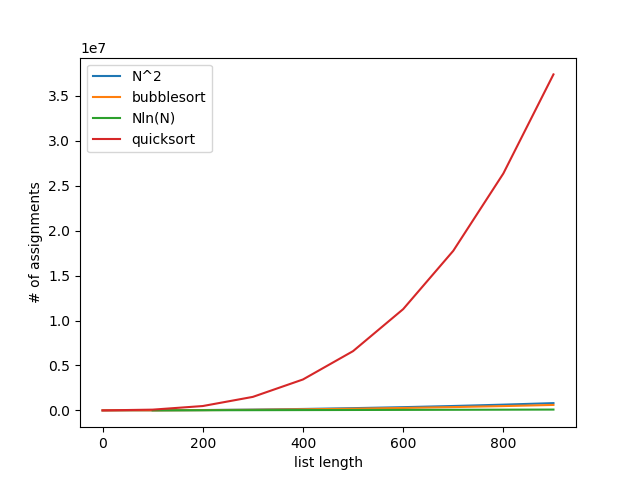
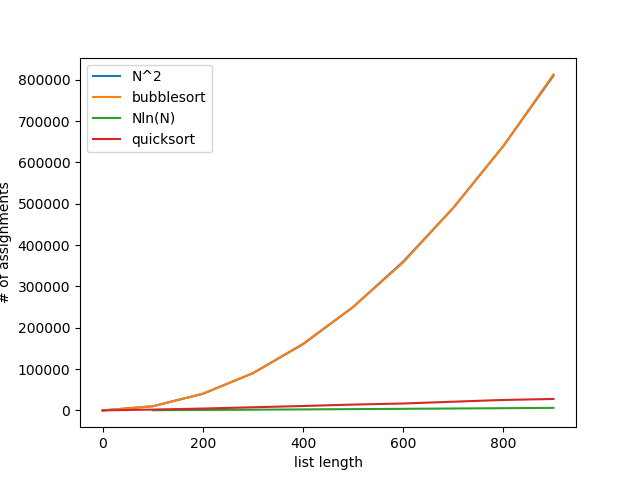
Makes changes to counting

diff --git a/Sorting_Functions/run.py b/Sorting_Functions/run.py
@@ -2,7 +2,7 @@
 # to shows how to do relative import functions from another python file in
 # the same directory as this one.
 import numpy as np
-from .algs import quicksort, bubblesort
+from .algs import quicksort, bubblesort, quicksort_count
 import random
 import time
 import matplotlib.pyplot as plt
@@ -36,9 +36,11 @@ def run_stuff():
             iter_bs_assigns.append(b_sort[1])
             iter_bs_conds.append(b_sort[2])
 
-            q_sort = quicksort(x, 0, len(x) - 1)
-            iter_qs_assigns.append(q_sort[1])
-            iter_qs_conds.append(q_sort[2])
+            y = np.random.rand(i)
+
+            q_sort = quicksort_count(y, 0, len(y) - 1)
+            iter_qs_assigns.append(q_sort[0])
+            iter_qs_conds.append(q_sort[1])
 
         bs_assigns.append(np.average(iter_bs_assigns))
         bs_conds.append(np.average(iter_bs_conds))
@@ -53,7 +55,7 @@ def run_stuff():
     plt.ylabel("# of assignments")
     plt.plot(arr_val, [i**2 for i in range(0, 1000, 100)], label = "N^2")
     plt.plot(arr_val, bs_assigns, label = "bubblesort")
-    plt.plot(arr_val, [15 *i * np.log(i) for i in range(0, 1000, 100)], label = "Nln(N)")
+    plt.plot(arr_val, [i * np.log(i) for i in range(0, 1000, 100)], label = "Nln(N)")
     plt.plot(arr_val, qs_assigns, label = "quicksort")
     plt.legend()
     plt.savefig("assignments.png")
@@ -66,7 +68,7 @@ def run_stuff():
     plt.ylabel("# of conditionals")
     plt.plot(arr_val, [i**2 for i in range(0, 1000, 100)], label = "N^2")
     plt.plot(arr_val, bs_conds, label = "bubblesort")
-    plt.plot(arr_val, [15 * i * np.log(i) for i in range(0, 1000, 100)], label = "Nln(N)")
+    plt.plot(arr_val, [i * np.log(i) for i in range(0, 1000, 100)], label = "Nln(N)")
     plt.plot(arr_val, qs_conds, label = "quicksort")
     plt.legend()
     plt.savefig("conditionals.png")

diff --git a/Sorting_Functions/algs.py b/Sorting_Functions/algs.py
@@ -6,7 +6,8 @@ def bubblesort(A):
     n_assign = 0 #number of assignments
     n_cond = 0 #number of conditions
     n = len(A)
-
+    n_assign +=1
+    n_cond +=1
     if n == 0:
         return A, n_assign, n_cond
 
@@ -14,20 +15,18 @@ def bubblesort(A):
         n_assign += 1
         for j in range(0, n-i-1):
             n_assign += 1
+            n_cond += 1
             if A[j] > A[j+1] :
-                n_cond += 1
                 A[j], A[j+1] = A[j+1], A[j]
-                n_assign +=1
-            else:
-                n_cond += 1
+                n_assign +=2
+
     return A, n_assign, n_cond
 
 qs_assign, qs_cond = 0, 0
 def quicksort(A,p,r):
     global qs_assign, qs_cond
-
+    qs_cond += 1
     if len(A) in (0,1):
-        qs_cond += 1
         return A,qs_assign, qs_cond
 
     def partition(arr,first,last):
@@ -35,9 +34,11 @@ def quicksort(A,p,r):
 
         x = arr[last] # choosing the pivot as the last element in the array
         i = first - 1 #start index
+        qs_assign+=2
         for j in range(first,last):
+            qs_assign+=1
+            qs_cond += 1
             if A[j] <= x:
-                qs_cond += 1
                 i = i+1
                 qs_assign += 1
                 arr[i],arr[j] = arr[j],arr[i]
@@ -45,12 +46,17 @@ def quicksort(A,p,r):
         arr[i+1],arr[last]=arr[last],arr[i+1]
         qs_assign += 2
         return i+1
-
+    qs_cond += 1
     if p < r:
-        qs_cond += 1
         q = partition(A,p,r)
         quicksort(A,p,q-1)
         qs_assign += 1
         quicksort(A,q+1,r)
         qs_assign += 1
         return A, qs_assign, qs_cond
+
+def quicksort_count(A,p,r):
+    global qs_assign, qs_cond
+    qs_assign, qs_cond = 0, 0
+    quicksort(A,p,r)
+    return qs_assign, qs_cond
